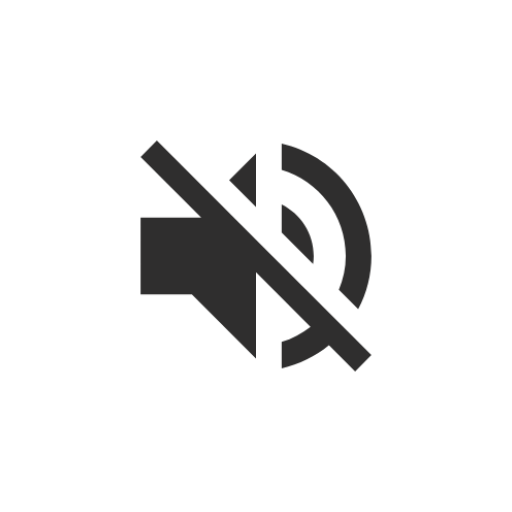
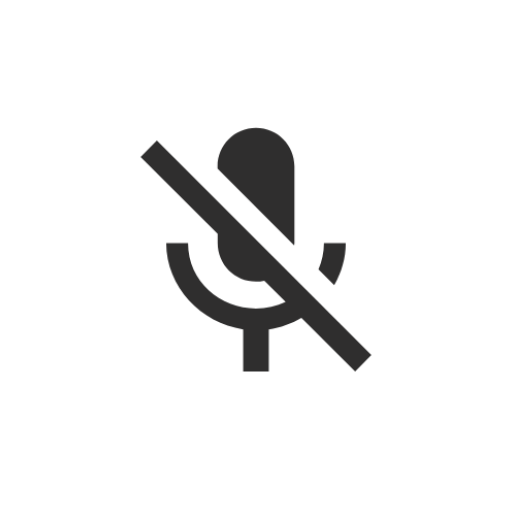
fixed video_call image sink

Changed region(s): [[0.25, 0.4062, 0.6562, 0.75], [0.4062, 0.25, 0.75, 0.625]]

diff --git a/app/src/main/java/com/example/solo_project/webrtc/VideoCallFragment.java b/app/src/main/java/com/example/solo_project/webrtc/VideoCallFragment.java
@@ -5,12 +5,14 @@ import static androidx.core.content.ContextCompat.getSystemService;
 import android.Manifest;
 import android.content.Context;
 import android.content.pm.PackageManager;
+import android.graphics.drawable.Drawable;
 import android.hardware.Camera;
 import android.media.AudioManager;
 import android.os.Bundle;
 
 import androidx.annotation.NonNull;
 import androidx.core.app.ActivityCompat;
+import androidx.core.content.ContextCompat;
 import androidx.fragment.app.Fragment;
 
 import android.util.Log;
@@ -85,6 +87,8 @@ public class VideoCallFragment extends Fragment
     private String sender;
     private View root;
     private boolean camera_Status = false; // 0이면 후면 1이면 전면
+    private boolean audio_Status = false; //0이면 꺼짐 1이면 켜짐
+    private boolean remote_audio_Status = false; //0이면 꺼짐 1이면 켜짐
 
     private static final int PERMISSION_REQUEST_CODE = 1;
     private EglBase eglBase;
@@ -95,6 +99,7 @@ public class VideoCallFragment extends Fragment
     private Button mic_Close;
     private Button sound_Close;
     private AudioTrack remoteAudioTrack;
+    private VideoCapturer videoCapturer;
     public VideoCallFragment(Signaling_Socket socket,boolean status,String sender,String receiver) {
         this.socket = socket;
         this.status = status;
@@ -107,7 +112,7 @@ public class VideoCallFragment extends Fragment
     public View onCreateView(LayoutInflater inflater, ViewGroup container,
                              Bundle savedInstanceState) {
         root = inflater.inflate(R.layout.fragment_video_call, container, false);
-        requestPermissions();
+//        requestPermissions();
         initWebRTC();
         init_view();
         return root;
@@ -123,16 +128,44 @@ public class VideoCallFragment extends Fragment
         camera_Changer = root.findViewById(R.id.video_call_camera_switch);
         mic_Close = root.findViewById(R.id.video_call_micOff);
         sound_Close = root.findViewById(R.id.video_call_volume_off);
+        camera_Changer.setOnClickListener(new View.OnClickListener() {
+            @Override
+            public void onClick(View view) {
+                camera_Change();
+                Log.d(TAG, "onClick: camera_Changer 클릭됨");
+            }
+        });
         mic_Close.setOnClickListener(new View.OnClickListener() {
             @Override
             public void onClick(View view) {
-                stream.removeTrack(localAudioTrack);
+                if(audio_Status){
+                    Drawable drawable = ContextCompat.getDrawable(getActivity().getApplicationContext(), R.mipmap.ic_call_mic_off);
+                    mic_Close.setBackground(drawable);
+                    stream.removeTrack(localAudioTrack);
+                }else{
+                    Drawable drawable = ContextCompat.getDrawable(getActivity().getApplicationContext(), R.mipmap.ic_call_mic_on);
+                    mic_Close.setBackground(drawable);
+                    localAudioTrack = peerConnectionFactory.createAudioTrack("101", audioSource);
+                    localAudioTrack.setEnabled(true);
+                    stream.addTrack(localAudioTrack);
+                }
+
             }
         });
         sound_Close.setOnClickListener(new View.OnClickListener() {
             @Override
             public void onClick(View view) {
-                remoteAudioTrack.setEnabled(false);
+                if(remote_audio_Status){
+                    Drawable drawable = ContextCompat.getDrawable(getActivity().getApplicationContext(), R.mipmap.ic_call_volume_off);
+                    sound_Close.setBackground(drawable);
+                    remoteAudioTrack.setEnabled(false);
+                    remote_audio_Status = false;
+                }else{
+                    Drawable drawable = ContextCompat.getDrawable(getActivity().getApplicationContext(), R.mipmap.ic_call_volume_on);
+                    sound_Close.setBackground(drawable);
+                    remoteAudioTrack.setEnabled(true);
+                    remote_audio_Status = true;
+                }
             }
         });
         close_Call.setOnClickListener(new View.OnClickListener() {
@@ -236,7 +269,7 @@ public class VideoCallFragment extends Fragment
                     }
                 });
         SurfaceTextureHelper surfaceTextureHelper = SurfaceTextureHelper.create("CaptureThread", eglBase.getEglBaseContext());
-        VideoCapturer videoCapturer = createCameraCapturer();
+        videoCapturer = createCameraCapturer();
         videoSource = peerConnectionFactory.createVideoSource(videoCapturer.isScreencast());
         videoCapturer.initialize(surfaceTextureHelper, getActivity().getApplicationContext(), videoSource.getCapturerObserver());
         videoCapturer.startCapture(1000, 1000, 30);
@@ -285,15 +318,34 @@ public class VideoCallFragment extends Fragment
     }
     private void camera_Change(){
         SurfaceTextureHelper surfaceTextureHelper = SurfaceTextureHelper.create("CaptureThread", eglBase.getEglBaseContext());
-        VideoCapturer videoCapturer;
+        try {
+            videoCapturer.stopCapture();
+        } catch (InterruptedException e) {
+            throw new RuntimeException(e);
+        }
         if(camera_Status){
-            videoCapturer = createCameraCapturer();
-        }else{
+            if(videoCapturer != null){
+                videoCapturer.dispose();
+            }
             videoCapturer = createCameraFront();
+            camera_Status = false;
+        }else{
+            if(videoCapturer != null){
+                videoCapturer.dispose();
+            }
+            videoCapturer = createCameraCapturer();
+            camera_Status = true;
         }
         videoSource = peerConnectionFactory.createVideoSource(videoCapturer.isScreencast());
         videoCapturer.initialize(surfaceTextureHelper, getActivity().getApplicationContext(), videoSource.getCapturerObserver());
         videoCapturer.startCapture(1000, 1000, 30);
+        stream.removeTrack(videoTrack);
+        videoTrack = peerConnectionFactory.createVideoTrack("103",videoSource);
+        videoTrack.addSink(my_view);
+        stream.addTrack(videoTrack);
+
+
+
     }
     private void createAnswer(String remoteSdp) {
         MediaConstraints constraints = new MediaConstraints();

diff --git a/app/src/main/java/com/example/solo_project/webrtc/Video_call_Activity.java b/app/src/main/java/com/example/solo_project/webrtc/Video_call_Activity.java
@@ -2,10 +2,15 @@ package com.example.solo_project.webrtc;
 
 import static androidx.core.content.ContextCompat.getSystemService;
 
+import androidx.annotation.NonNull;
 import androidx.appcompat.app.AppCompatActivity;
+import androidx.core.app.ActivityCompat;
 
+import android.Manifest;
+import android.app.Activity;
 import android.content.Context;
 import android.content.Intent;
+import android.content.pm.PackageManager;
 import android.media.AudioManager;
 import android.os.Build;
 import android.os.Bundle;
@@ -42,8 +47,10 @@ public class Video_call_Activity extends AppCompatActivity implements OnCall_Cho
     private CallingFragment callingFragment;
     private CallChoiceFragment callChoiceFragment;
     private VideoCallFragment videoCallFragment;
+    private static final int PERMISSION_REQUEST_CODE = 1;
     private String TAG = "Video_call_activity";
     private boolean setOffer = false;
+    private String[] permissions = {Manifest.permission.CAMERA, Manifest.permission.RECORD_AUDIO};
 
     @Override
     protected void onCreate(Bundle savedInstanceState) {
@@ -56,6 +63,7 @@ public class Video_call_Activity extends AppCompatActivity implements OnCall_Cho
         }
     }
     private void init_() throws IOException {
+        requestPermissions();
         Intent i = getIntent();
         status = i.getStringExtra("status");
         sender = i.getStringExtra("sender");
@@ -139,6 +147,23 @@ public class Video_call_Activity extends AppCompatActivity implements OnCall_Cho
             throw new RuntimeException(e);
         } catch (JSONException e) {
             throw new RuntimeException(e);
+        }
+    }
+    private void requestPermissions() {
+        ActivityCompat.requestPermissions(Video_call_Activity.this, permissions, PERMISSION_REQUEST_CODE);
+    }
+    @Override
+    public void onRequestPermissionsResult(int requestCode, @NonNull String[] permissions, @NonNull int[] grantResults) {
+        super.onRequestPermissionsResult(requestCode, permissions, grantResults);
+        if (requestCode == PERMISSION_REQUEST_CODE) {
+            for (int result : grantResults) {
+                if (result != PackageManager.PERMISSION_GRANTED) {
+                    Toast.makeText(Video_call_Activity.this, "권한 요청 거부됨. 앱이 제대로 작동하지 않을 수 있습니다.", Toast.LENGTH_SHORT).show();
+                    break;
+                }else{
+
+                }
+            }
         }
     }
 }

diff --git a/app/src/main/java/com/example/solo_project/F_chating.java b/app/src/main/java/com/example/solo_project/F_chating.java
@@ -102,7 +102,7 @@ public class F_chating extends Fragment {
     public void onResume() {
         super.onResume();
         list_select();
-        EventBus.getDefault().unregister(this);
+        EventBus.getDefault().register(this);
     }
     public void room_update(){
         list_select();
@@ -114,11 +114,6 @@ public class F_chating extends Fragment {
         EventBus.getDefault().unregister(this);
     }
 
-    @Override
-    public void onDestroyView() {
-        super.onDestroyView();
-        EventBus.getDefault().unregister(this);
-    }
     @Subscribe(threadMode = ThreadMode.MAIN)
     public void FinishLoad(msg_box msg){
         Log.e("FinishLoad",msg.getMsg());

diff --git a/app/src/main/java/com/example/solo_project/chat_FCM.java b/app/src/main/java/com/example/solo_project/chat_FCM.java
@@ -140,7 +140,7 @@ public class chat_FCM extends FirebaseMessagingService {
         } else {
             builder = builder.setContentTitle(title)
                     .setContentText(message)
-                    .setSmallIcon(R.drawable.app_icon);
+                    .setSmallIcon(R.drawable.app_icon).setContentIntent(pendingIntent);
         }
 
         NotificationManager notificationManager = (NotificationManager) getSystemService(Context.NOTIFICATION_SERVICE);

diff --git a/app/src/main/java/com/example/solo_project/Signup.java b/app/src/main/java/com/example/solo_project/Signup.java
@@ -286,19 +286,4 @@ public class Signup extends AppCompatActivity {
             }
         });
     }
-    public void Timer(TextView time){
-        int timer = 300; //300초 변수 선언
-        int hour = (timer - 1) / 5;
-
-
-        time.post(new Runnable() {
-            @Override
-            public void run() {
-                if(timer <= 0){
-                    return;
-                }
-            }
-        });
-
-    }
 }

diff --git a/app/src/main/java/com/example/solo_project/F_profile.java b/app/src/main/java/com/example/solo_project/F_profile.java
@@ -139,7 +139,7 @@ public class F_profile extends Fragment {
                 if(response.isSuccessful()){
                     Log.e("프로필프래그먼트 Credit", String.valueOf(response.body().getCredit()));
                     credit = response.body().getCredit();
-                    credit_View.setText("보유 크래딧: "+ credit +"C");
+                    credit_View.setText(credit+"C");
                 }
             }
 

diff --git a/app/src/main/java/com/example/solo_project/main_adapter.java b/app/src/main/java/com/example/solo_project/main_adapter.java
@@ -116,7 +116,7 @@ public class main_adapter extends RecyclerView.Adapter<main_adapter.ViewHolder> 
         } else if ((diffTime /= DAY) < MONTH) {
             msg = (diffTime) + "달 전";
         } else {
-            msg = (diffTime) + "년 전";
+            msg = (diffTime / 12 ) + "년 전";
         }
         return msg;
     }
